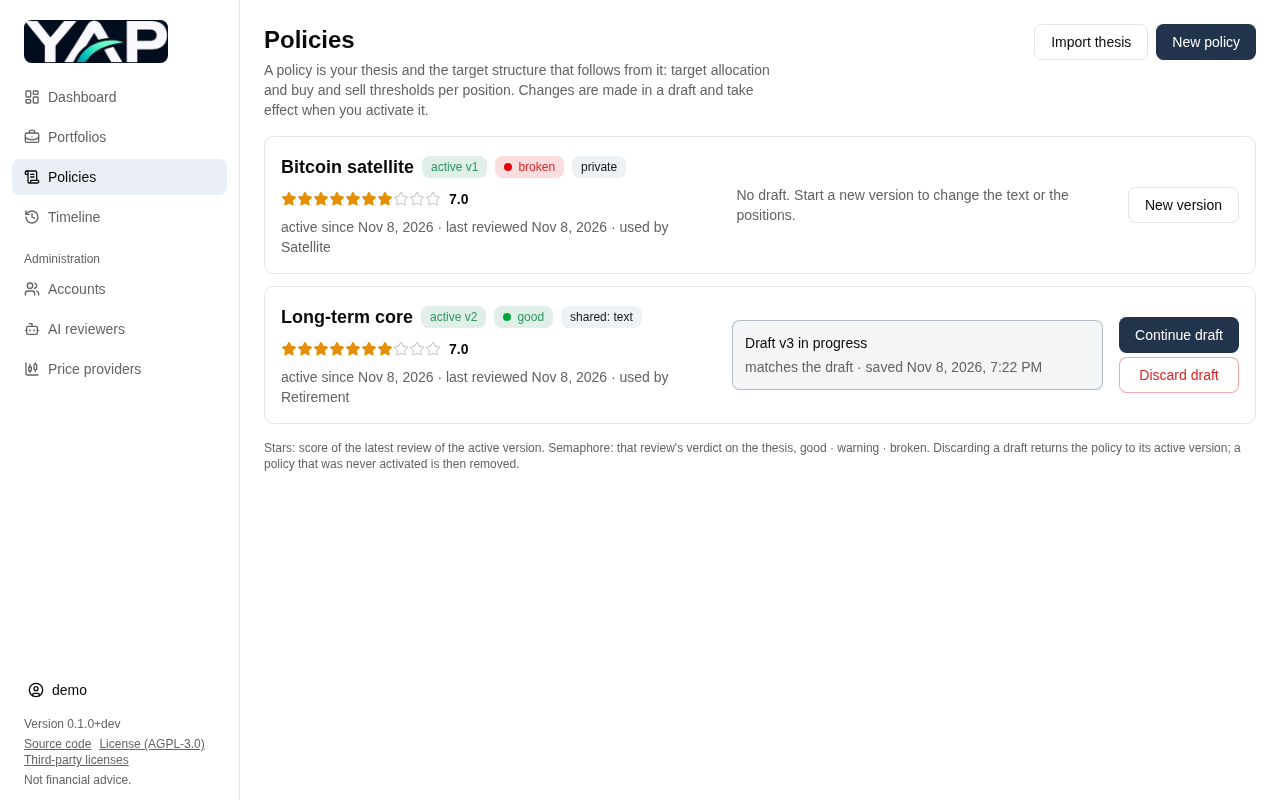
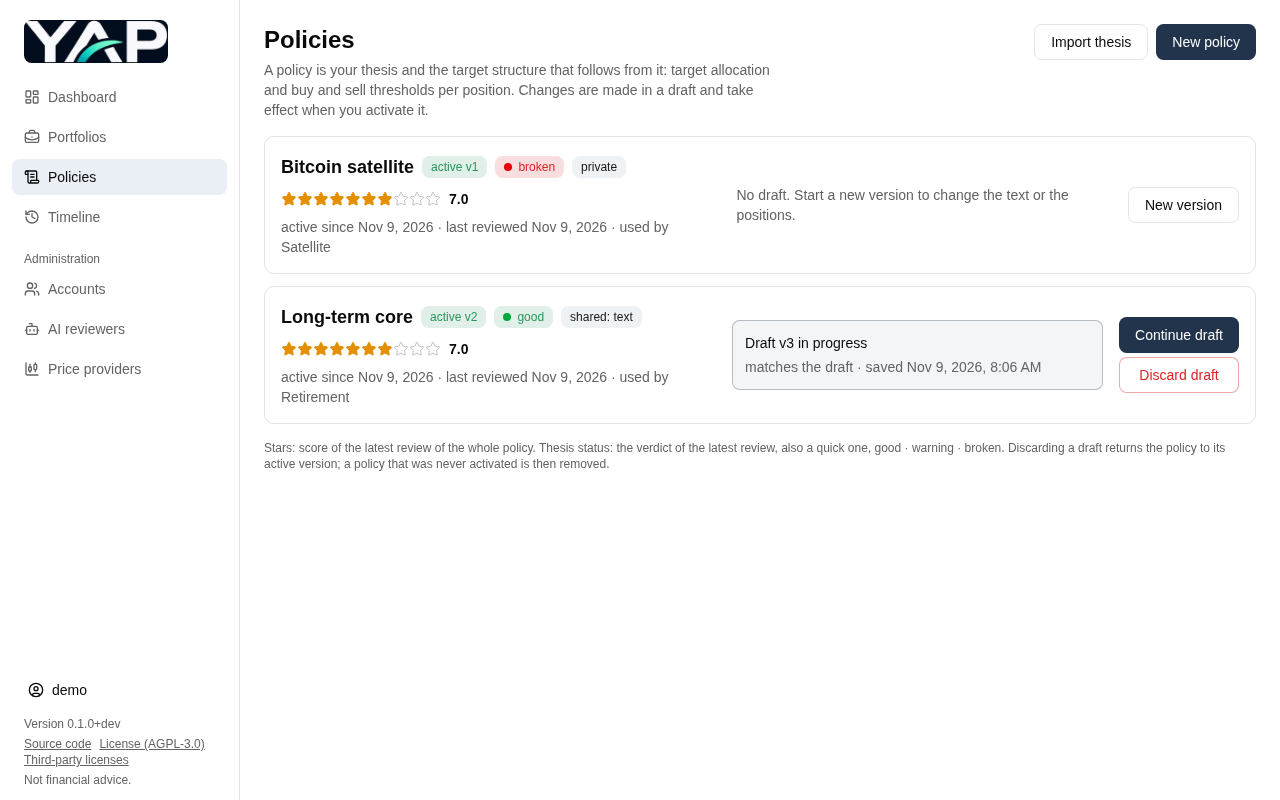
Semaphore is called "thesis status" in the UI; docs and screenshots updated
- UI texts (English and German) say thesis status / Status der Anlagethese; code, API and spec keep "semaphore" (glossary notes it)
- docs/features.md and the screenshots show quick review, full review dialog and the coloured status box

Changed region(s): [[0.2188, 0.5312, 0.9688, 0.5938], [0.7812, 0.4375, 0.8125, 0.4688]]

diff --git a/frontend/src/i18n/areas/reviews.ts b/frontend/src/i18n/areas/reviews.ts
@@ -109,7 +109,7 @@ export const en = {
     read: "Read",
   },
   semaphore: {
-    thesis: "Thesis:",
+    thesis: "Thesis status:",
     toPolicy: "Open the policy",
   },
   draftBox: {
@@ -121,7 +121,7 @@ export const en = {
   },
   again: {
     title: "Quick review",
-    note: "Checks the active {{version}} against today's news: only the verdict and the sources, no scores and no suggestions. The score stays as it was when the version was reviewed; the result is added to the review log and gives the new semaphore. No new version is created.",
+    note: "Checks the active {{version}} against today's news: only the verdict and the sources, no scores and no suggestions. The score stays as it was when the version was reviewed; the result is added to the review log and gives the new thesis status. No new version is created.",
   },
   log: {
     title: "Review log",
@@ -136,7 +136,7 @@ export const en = {
     again: "quick review",
     reviewer: "Reviewer",
     score: "Score",
-    semaphore: "Semaphore",
+    semaphore: "Thesis status",
     comparison: "{{from}} → {{to}}",
     aspect: "Aspect",
     change: "Change",
@@ -307,7 +307,7 @@ export const de: Messages<typeof en> = {
     read: "Lesen",
   },
   semaphore: {
-    thesis: "Anlagethese:",
+    thesis: "Status der Anlagethese:",
     toPolicy: "Anlagestrategie öffnen",
   },
   draftBox: {
@@ -319,7 +319,7 @@ export const de: Messages<typeof en> = {
   },
   again: {
     title: "Schnellprüfung",
-    note: "Prüft die aktive {{version}} gegen die heutigen Nachrichten: nur das Urteil und die Quellen, keine Bewertungen und keine Vorschläge. Die Bewertung bleibt, wie sie bei der Prüfung der Version war; das Ergebnis kommt ins Prüfprotokoll und bestimmt die neue Ampel. Es entsteht keine neue Version.",
+    note: "Prüft die aktive {{version}} gegen die heutigen Nachrichten: nur das Urteil und die Quellen, keine Bewertungen und keine Vorschläge. Die Bewertung bleibt, wie sie bei der Prüfung der Version war; das Ergebnis kommt ins Prüfprotokoll und bestimmt den neuen Status der Anlagethese. Es entsteht keine neue Version.",
   },
   log: {
     title: "Prüfprotokoll",
@@ -334,7 +334,7 @@ export const de: Messages<typeof en> = {
     again: "Schnellprüfung",
     reviewer: "Prüfer",
     score: "Bewertung",
-    semaphore: "Ampel",
+    semaphore: "Status der Anlagethese",
     comparison: "{{from}} → {{to}}",
     aspect: "Aspekt",
     change: "Änderung",

diff --git a/frontend/src/i18n/areas/policies.ts b/frontend/src/i18n/areas/policies.ts
@@ -21,7 +21,7 @@ export const en = {
     noneYet: "none yet",
     draftBadge: "draft",
     legend:
-      "Stars: score of the latest review of the active version. Semaphore: that review's verdict on the thesis, good · warning · broken. Discarding a draft returns the policy to its active version; a policy that was never activated is then removed.",
+      "Stars: score of the latest review of the whole policy. Thesis status: the verdict of the latest review, also a quick one, good · warning · broken. Discarding a draft returns the policy to its active version; a policy that was never activated is then removed.",
     activeBadge: "active v{{no}}",
     draftBadgeNo: "draft v{{no}}",
     notActiveYet: "Not active yet",
@@ -233,7 +233,7 @@ export const de: Messages<typeof en> = {
     noneYet: "noch keine",
     draftBadge: "Entwurf",
     legend:
-      "Sterne: Bewertung der neuesten Prüfung der aktiven Version. Ampel: das Urteil dieser Prüfung über die Anlagethese, gut · Warnung · gebrochen. Verwirfst du einen Entwurf, kehrt die Anlagestrategie zu ihrer aktiven Version zurück; eine nie aktivierte wird dann entfernt.",
+      "Sterne: Bewertung der neuesten Prüfung der ganzen Anlagestrategie. Status der Anlagethese: das Urteil der neuesten Prüfung, auch einer Schnellprüfung, gut · Warnung · gebrochen. Verwirfst du einen Entwurf, kehrt die Anlagestrategie zu ihrer aktiven Version zurück; eine nie aktivierte wird dann entfernt.",
     activeBadge: "aktiv v{{no}}",
     draftBadgeNo: "Entwurf v{{no}}",
     notActiveYet: "Noch nicht aktiv",

diff --git a/frontend/src/i18n/areas/portfolios.ts b/frontend/src/i18n/areas/portfolios.ts
@@ -8,7 +8,7 @@ export const en = {
       "Your portfolios at a glance, warnings about the theses behind your policies, and your latest decisions.",
     portfolios: "Portfolios",
     warnings: "Warnings",
-    thesisMarked: ": the semaphore of its thesis is {{status}}.",
+    thesisMarked: ": the status of its thesis is {{status}}.",
     recentEvents: "Recent events",
     timeline: "Timeline",
   },
@@ -158,7 +158,7 @@ export const de: Messages<typeof en> = {
       "Deine Portfolios auf einen Blick, Warnungen zu den Anlagethesen hinter deinen Anlagestrategien und deine letzten Entscheidungen.",
     portfolios: "Portfolios",
     warnings: "Warnungen",
-    thesisMarked: ": Die Ampel ihrer Anlagethese steht auf «{{status}}».",
+    thesisMarked: ": Der Status ihrer Anlagethese ist «{{status}}».",
     recentEvents: "Letzte Ereignisse",
     timeline: "Verlauf",
   },

diff --git a/frontend/src/features/timeline/timeline.test.tsx b/frontend/src/features/timeline/timeline.test.tsx
@@ -271,7 +271,7 @@ describe("timeline", () => {
     );
     const alerts = await screen.findAllByRole("alert");
     expect(alerts.map((a) => a.textContent)).toEqual([
-      "growth: the semaphore of its thesis is warning.",
+      "growth: the status of its thesis is warning.",
     ]);
     const recent = screen.getByRole("heading", { name: "Recent events" }).closest("section")!;
     expect(within(recent).getAllByRole("listitem")).toHaveLength(4);

diff --git a/frontend/screenshots/features.spec.ts b/frontend/screenshots/features.spec.ts
@@ -326,6 +326,8 @@ test("feature screenshots", async ({ page, browser }) => {
   await test.step("policy", async () => {
     await page.goto(`/policies/${ids.policy}`);
     await expect(page.getByText("Long-term core").first()).toBeVisible();
+    // The quick review box has loaded its latest review
+    await expect(page.getByRole("button", { name: M.reviews.start.quick })).toBeVisible();
     await shot(page, "policy");
   });
 

diff --git a/frontend/src/i18n/areas/domain.ts b/frontend/src/i18n/areas/domain.ts
@@ -1,6 +1,7 @@
 import type { Messages } from "../messages";
 
-// Labels of domain values used in several places: semaphore (review verdict), asset type.
+// Labels of domain values used in several places: thesis status (the review verdict, called
+// semaphore in the code and the spec), asset type.
 export const en = {
   semaphore: {
     good: "good",

diff --git a/docs/features.md b/docs/features.md
@@ -26,7 +26,7 @@ The screenshots show fictional demo data. They are generated with `npm run scree
 
 ## Dashboard
 
-All portfolios at a glance: how many positions are outside their band, the semaphore of
+All portfolios at a glance: how many positions are outside their band, the thesis status of
 the policy behind each of them (good, warning, broken) and your latest decisions.
 
 ![Dashboard with one portfolio and the recent events](screenshots/dashboard.png)
@@ -50,7 +50,7 @@ buffers, ETFs, stocks and crypto are supported.
 
 ![The draft editor: thesis and target structure on the left, the review beside it](screenshots/policy-editor.png)
 
-![Policies with their latest review: stars, semaphore, draft and portfolios](screenshots/policies.png)
+![Policies with their latest review: stars, thesis status, draft and portfolios](screenshots/policies.png)
 
 ![A policy with its target structure](screenshots/policy.png)
 
@@ -80,7 +80,7 @@ anything missing is sold from the positions furthest above target. The instructi
 trading, you confirm what was actually executed; the rebalance and the resulting values are
 stored. A simulation shows how several rebalancing cycles would play out.
 
-The thesis semaphore informs you; it never trades for you. With a **warning**, the page shows
+The thesis status informs you; it never trades for you. With a **warning**, the page shows
 an amber hint with the reason of the latest review and a link to the policy; the calculation
 stays as usual. With a **broken** thesis, the page shows the reason in red and asks how you
 want to rebalance: **sell the whole portfolio** (preselected: every position is sold
@@ -99,7 +99,7 @@ the whole policy at once: six aspects of the thesis (belief, fit and implementat
 opportunity, downside, invalidation, warnings and monitoring, current evidence from a web
 search for recent news, with sources) and six of the target structure (coverage, weighting,
 bands, exits, concentration, rationales). Each is scored from 0 to 10 in half points, with
-its reasoning. The review gives a score and the thesis a **semaphore**: *good*, *warning* or
+its reasoning. The review gives a score and the thesis a **status**: *good*, *warning* or
 *broken*, with a reason.
 
 - **Suggestions** change a thesis section or a position (change, add, remove) and are never
@@ -112,7 +112,7 @@ its reasoning. The review gives a score and the thesis a **semaphore**: *good*, 
   only checks the verdict against current news. The score stays as the last full review set
   it, and there are no suggestions. Only a draft gets a review of the whole policy; the
   Finalize page strongly recommends completing it before you activate. All results are kept
-  in a review log that you can compare, and the latest one sets the semaphore shown on the
+  in a review log that you can compare, and the latest one sets the thesis status shown on the
   policy and on its portfolios.
 
 ![The review log with the score course and the comparison of two reviews](screenshots/policy-reviews.png)

diff --git a/spec/sw-architecture.md b/spec/sw-architecture.md
@@ -207,7 +207,7 @@ Priorities: **M** = must, **S** = should, **C** = could.
 | Cash buffer | A position of type `cash buffer`; its value is used for dip buying |
 | Rebalance | A calculation of buy and sell instructions for a portfolio from a snapshot and the active version of its policy. Stored only when the investor confirms it |
 | Review | An assessment of a draft or of the active version, by an AI reviewer or manually: a score per aspect of the thesis (T1–T6) and of the target structure (P1–P6), a score, the verdict on the thesis (the semaphore), suggestions that can be taken over and, without positions, proposed target structures (section 3.9) |
-| Semaphore | The verdict of a review on the thesis: `good`, `warning` or `broken`, shown green, amber or red. The latest review of the active version sets it; it is the only state a thesis has (THS-04) |
+| Thesis status (semaphore) | The verdict of a review on the thesis: `good`, `warning` or `broken`, shown green, amber or red. The UI calls it "thesis status" (German: "Status der Anlagethese"); this document, the code and the API keep the technical term "semaphore". The latest review of the active version, quick reviews included, sets it; it is the only state a thesis has (THS-04). It is derived from reviews, never set by the investor |
 | Matching review | A review of a draft whose fingerprint equals that of the draft's current title, thesis and target structure (REV-09) |
 | Take over | Applying a suggestion or a proposed target structure of a review to the draft with one click (REV-07, REV-22) |
 | Review log | All reviews of a policy's versions with their dates: those confirmed at activation and those saved later on the active version (REV-23) |

diff --git a/README.md b/README.md
@@ -13,7 +13,7 @@ you can always see what you decided, when and why.
 
 <p align="center">
   <img src="docs/screenshots/policy-editor.png" width="600"
-       alt="The policy editor: thesis and target structure with the AI review beside it: scores, semaphore and suggestions">
+       alt="The policy editor: thesis and target structure with the AI review beside it: scores, thesis status and suggestions">
 </p>
 
 > **Not financial advice.** YAP applies the rules you define and records your decisions;
